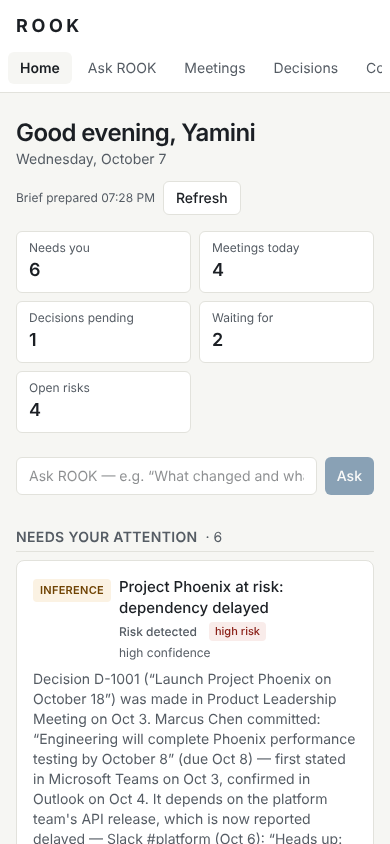
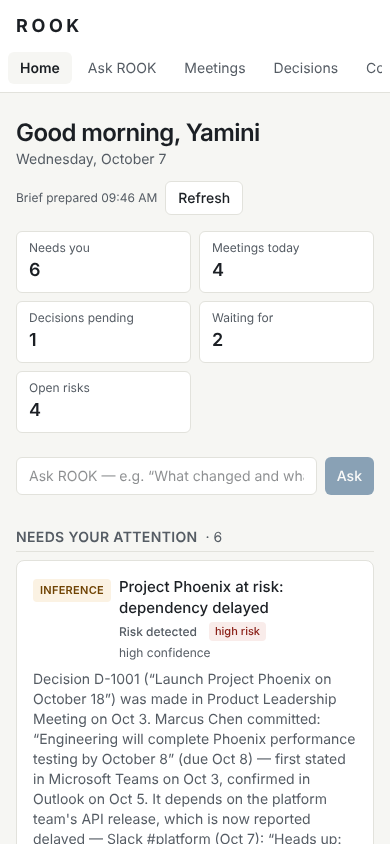
Demo data: plan meetings in the demo user's local working hours
M3 product-review prep (demo/test data only; no schema or production
time-architecture change).

- Demo agenda is planned in the demo user's configured time zone
  (ROOK_DEMO_TIMEZONE, default UTC; stored on the demo users and the demo
  connector config). Meetings fall within 08:00-18:00 local: stand-up 08:30,
  then Product Review / Payments steering / CFO 1:1 at the next sensible
  half-hour slots; anything that no longer fits today moves to the next
  morning. No overnight meetings; no "this morning" messages in the future.
- "Today" on the brief is the user's local calendar day (no rolling window
  into tomorrow).
- Tests: tenant fixtures use a zone where it is mid-morning so runs are
  deterministic; new tests/test_demo_data.py (working hours across 6 zones
  x 24 hours, morning/evening agendas, local-day "Today"); E2E pins the API
  demo zone and the browser timezoneId to the same local morning.
- Screenshots refreshed.

Claude-Session: https://claude.ai/code/session_01XjgUbqAZDXNApF1DXPERZT

diff --git a/frontend/playwright.config.ts b/frontend/playwright.config.ts
@@ -7,6 +7,17 @@ import { defineConfig } from "@playwright/test";
 const python = process.env.ROOK_PYTHON ?? ".venv/bin/python";
 const chromium = process.env.PW_CHROMIUM_PATH;
 
+/**
+ * Demo time zone: one where it is ~09:00 now (mirrors backend `demo_morning_timezone`), so reviews and
+ * CI always see a realistic working day. The API's demo user and the browser share this zone.
+ * Etc/GMT signs are inverted (Etc/GMT-5 = UTC+5).
+ */
+function morningTimezone(localHour = 9): string {
+  const offset = ((((localHour - new Date().getUTCHours() + 12) % 24) + 24) % 24) - 12;
+  return offset === 0 ? "Etc/GMT" : offset > 0 ? `Etc/GMT-${offset}` : `Etc/GMT+${-offset}`;
+}
+const demoTimezone = process.env.ROOK_DEMO_TIMEZONE ?? morningTimezone();
+
 export default defineConfig({
   testDir: "./e2e",
   workers: 1,
@@ -16,11 +27,12 @@ export default defineConfig({
   use: {
     baseURL: "http://localhost:3000",
     trace: "retain-on-failure",
+    timezoneId: demoTimezone,
     launchOptions: chromium ? { executablePath: chromium } : {},
   },
   webServer: [
     {
-      command: `sh -c "rm -f e2e.db && ROOK_DATABASE_URL=sqlite:///./e2e.db ROOK_DEV_LOGIN=true ${python} -m uvicorn rook.main:app --port 8000"`,
+      command: `sh -c "rm -f e2e.db && ROOK_DATABASE_URL=sqlite:///./e2e.db ROOK_DEV_LOGIN=true ROOK_DEMO_TIMEZONE=${demoTimezone} ${python} -m uvicorn rook.main:app --port 8000"`,
       cwd: "../backend",
       url: "http://localhost:8000/api/health",
       reuseExistingServer: !process.env.CI,

diff --git a/backend/rook/connectors/demo_data.py b/backend/rook/connectors/demo_data.py
@@ -8,7 +8,8 @@ and an unowned customer escalation.
 
 from __future__ import annotations
 
-from datetime import datetime, time, timedelta
+from datetime import UTC, date, datetime, time, timedelta
+from zoneinfo import ZoneInfo, ZoneInfoNotFoundError
 
 from .base import DirectoryPerson, DirectoryProject, NormalizedMeeting, NormalizedSignal, SyncBatch
 
@@ -24,21 +25,63 @@ def _fmt(d: datetime) -> str:
     return f"{d:%B} {d.day}"
 
 
-def build(now: datetime) -> SyncBatch:
-    today = datetime.combine(now.date(), time())
+# Demo meetings happen in normal working hours in the demo user's own time zone.
+WORKDAY_START = time(9, 0)
+WORKDAY_END = time(18, 0)
+
+
+def demo_morning_timezone(now_utc: datetime, local_hour: int = 9) -> str:
+    """Test helper: a fixed-offset zone in which it is currently about `local_hour` o'clock.
+
+    Lets tests and E2E runs see a realistic working day regardless of when CI runs.
+    Etc/GMT signs are inverted: Etc/GMT-5 is UTC+5.
+    """
+    offset = ((local_hour - now_utc.hour + 12) % 24) - 12  # -12..11
+    return "Etc/GMT" if offset == 0 else (f"Etc/GMT-{offset}" if offset > 0 else f"Etc/GMT+{-offset}")
+
+
+def build(now: datetime, tz: str = "UTC") -> SyncBatch:
+    """`now` is naive UTC; times are planned in local time in `tz` and returned as naive UTC."""
+    try:
+        zone = ZoneInfo(tz)
+    except (ZoneInfoNotFoundError, ValueError):
+        zone = ZoneInfo("UTC")
+    local_now = now.replace(tzinfo=UTC).astimezone(zone)
+    local_today = local_now.date()
+    today = datetime.combine(local_today, time())  # calendar arithmetic for dates quoted in the text
+
+    def at(day: date, hour: int, minute: int = 0) -> datetime:
+        local = datetime.combine(day, time(hour, minute), tzinfo=zone)
+        return local.astimezone(UTC).replace(tzinfo=None)
 
     def ago(days: int, hour: int = 9, minute: int = 0) -> datetime:
-        return today - timedelta(days=days) + timedelta(hours=hour, minutes=minute)
+        return at(local_today - timedelta(days=days), hour, minute)
 
     def ahead(days: int, hour: int = 9, minute: int = 0) -> datetime:
-        return today + timedelta(days=days) + timedelta(hours=hour, minutes=minute)
+        return at(local_today + timedelta(days=days), hour, minute)
 
-    # Today's agenda is anchored to the next full hour so the demo always has meetings ahead.
-    next_hour = now.replace(minute=0, second=0, microsecond=0) + timedelta(hours=1)
+    def next_slot(earliest_local: datetime, length_min: int, fallback: tuple[int, int, int]) -> tuple[datetime, datetime]:
+        """First half-hour slot at or after `earliest_local` that fits in today's working hours;
+        otherwise the fallback (days ahead, hour, minute) — never a meeting in the middle of the night."""
+        start = earliest_local.replace(second=0, microsecond=0)
+        if start.minute not in (0, 30):
+            start = start.replace(minute=30) if start.minute < 30 else start.replace(minute=0) + timedelta(hours=1)
+        start = max(start, datetime.combine(local_today, WORKDAY_START, tzinfo=zone))
+        end = start + timedelta(minutes=length_min)
+        if start.date() == local_today and end <= datetime.combine(local_today, WORKDAY_END, tzinfo=zone):
+            utc = start.astimezone(UTC).replace(tzinfo=None)
+            return utc, utc + timedelta(minutes=length_min)
+        d, h, m = fallback
+        begin = ahead(d, h, m)
+        return begin, begin + timedelta(minutes=length_min)
 
-    def slot(hours: float, length_min: int = 60) -> tuple[datetime, datetime]:
-        start = next_hour + timedelta(hours=hours)
-        return start, start + timedelta(minutes=length_min)
+    # Today's agenda: a morning stand-up, then the key meetings at sensible local times still ahead of
+    # the user when possible. Meetings that no longer fit before end of day move to the next morning.
+    review = next_slot(local_now + timedelta(minutes=30), 60, (1, 9, 30))
+    review_local = review[0].replace(tzinfo=UTC).astimezone(zone)
+    steering = next_slot(review_local + timedelta(hours=3), 60, (1, 13, 0))
+    steering_local = steering[0].replace(tzinfo=UTC).astimezone(zone)
+    cfo = next_slot(steering_local + timedelta(hours=2), 30, (1, 15, 30))
 
     launch_date = today + timedelta(days=11)
     perf_due = today + timedelta(days=1)
@@ -96,17 +139,17 @@ def build(now: datetime) -> SyncBatch:
             "Weekly product leadership: Phoenix launch readiness and pricing.",
         ),
         # today and upcoming
-        NormalizedMeeting("mtg-staff", "Executive staff stand-up", *slot(-2, 30), leadership, LEADER_EMAIL,
+        NormalizedMeeting("mtg-staff", "Executive staff stand-up", ahead(0, 8, 30), ahead(0, 9, 0), leadership, LEADER_EMAIL,
                           "Weekly staff alignment."),
         NormalizedMeeting(
-            "mtg-review", "Phoenix Product Review", *slot(0), [LEADER_EMAIL, _e("priya"), _e("marcus"), _e("tom")],
+            "mtg-review", "Phoenix Product Review", *review, [LEADER_EMAIL, _e("priya"), _e("marcus"), _e("tom")],
             _e("priya"), "Review Phoenix launch readiness and performance test results.",
         ),
         NormalizedMeeting(
-            "mtg-pay-steer", "Payments Migration steering", *slot(3), payments_team, _e("lena"),
+            "mtg-pay-steer", "Payments Migration steering", *steering, payments_team, _e("lena"),
             "Agree cutover approach for the payments migration.",
         ),
-        NormalizedMeeting("mtg-cfo", "1:1 with David (CFO)", *slot(5.5, 30), [LEADER_EMAIL, _e("david")], LEADER_EMAIL),
+        NormalizedMeeting("mtg-cfo", "1:1 with David (CFO)", *cfo, [LEADER_EMAIL, _e("david")], LEADER_EMAIL),
         NormalizedMeeting(
             "mtg-nw-qbr", "Northwind quarterly business review", ahead(1, 11), ahead(1, 12),
             [LEADER_EMAIL, _e("elena"), _e("priya")], _e("elena"), "Quarterly review with Northwind leadership.",
@@ -210,4 +253,8 @@ def build(now: datetime) -> SyncBatch:
     for sig in s:
         if sig.kind in {"email", "meeting_transcript"}:
             sig.visibility = "restricted"
+    # Early in the local day, "this morning" messages can't be in the future.
+    latest = now - timedelta(minutes=10)
+    for sig in s:
+        sig.occurred_at = min(sig.occurred_at, latest)
     return SyncBatch(signals=s, meetings=meetings, people=people, projects=projects)

diff --git a/backend/tests/test_demo_data.py b/backend/tests/test_demo_data.py
@@ -1,0 +1,85 @@
+"""Demo data realism (M3 review prep): meetings at sensible local times; "Today" = the local calendar day."""
+
+from datetime import UTC, datetime
+from zoneinfo import ZoneInfo
+
+import pytest
+from sqlalchemy import create_engine
+from sqlalchemy.orm import sessionmaker
+from sqlalchemy.pool import StaticPool
+
+from rook.bootstrap import ensure_demo_tenant
+from rook.connectors import demo_data
+from rook.db import init_db
+from rook.models import User, utcnow
+from rook.services.briefing import build_brief
+from rook.timeutil import to_local
+
+ZONES = ["UTC", "Asia/Kolkata", "America/Los_Angeles", "Europe/London", "Pacific/Auckland", "America/Sao_Paulo"]
+
+
+@pytest.mark.parametrize("tz", ZONES)
+@pytest.mark.parametrize("utc_hour", range(24))
+def test_meetings_fall_in_local_working_hours(tz, utc_hour):
+    now = datetime(2026, 10, 7, utc_hour, 17)
+    zone = ZoneInfo(tz)
+    batch = demo_data.build(now, tz)
+    for m in batch.meetings:
+        start = m.starts_at.replace(tzinfo=UTC).astimezone(zone)
+        end = m.ends_at.replace(tzinfo=UTC).astimezone(zone)
+        assert start.hour >= 8 and (end.hour, end.minute) <= (18, 0), (m.title, start, end)
+        assert start.date() == end.date(), "no overnight demo meetings"
+    assert all(s.occurred_at <= now for s in batch.signals), "no messages from the future"
+
+
+def test_key_meetings_are_still_ahead_in_the_morning():
+    now = datetime(2026, 10, 7, 4, 20)  # 09:50 in Kolkata
+    zone = ZoneInfo("Asia/Kolkata")
+    times = {m.title: m.starts_at.replace(tzinfo=UTC).astimezone(zone) for m in demo_data.build(now, "Asia/Kolkata").meetings}
+    assert times["Phoenix Product Review"].strftime("%a %H:%M") == "Wed 10:30"
+    assert times["Payments Migration steering"].strftime("%H:%M") == "13:30"
+    assert times["1:1 with David (CFO)"].strftime("%H:%M") == "15:30"
+    assert times["Executive staff stand-up"].strftime("%H:%M") == "08:30"
+
+
+def test_late_in_the_day_meetings_move_to_next_morning():
+    now = datetime(2026, 10, 7, 15, 0)  # 20:30 in Kolkata
+    zone = ZoneInfo("Asia/Kolkata")
+    times = {m.title: m.starts_at.replace(tzinfo=UTC).astimezone(zone) for m in demo_data.build(now, "Asia/Kolkata").meetings}
+    assert times["Phoenix Product Review"].strftime("%a %H:%M") == "Thu 09:30"
+    assert times["Payments Migration steering"].strftime("%a %H:%M") == "Thu 13:00"
+
+
+def _tenant(tz: str):
+    engine = create_engine("sqlite://", connect_args={"check_same_thread": False}, poolclass=StaticPool)
+    init_db(engine)
+    db = sessionmaker(bind=engine, expire_on_commit=False)()
+    ensure_demo_tenant(db, timezone=tz)
+    return db, db.query(User).filter_by(email="yamini@acme.example").one()
+
+
+def test_today_is_the_users_local_calendar_day():
+    tz = demo_data.demo_morning_timezone(utcnow(), local_hour=21)  # evening for the user
+    db, user = _tenant(tz)
+    assert user.timezone == tz
+    brief = build_brief(db, user)
+    local_today = to_local(utcnow(), tz).date()
+    for m in brief["today"]:
+        assert to_local(datetime.fromisoformat(m["starts_at"].rstrip("Z")), tz).date() == local_today
+    # in the evening only the morning stand-up remains on today's calendar; the rest moved to tomorrow
+    assert [m["title"] for m in brief["today"]] == ["Executive staff stand-up"]
+
+
+def test_morning_brief_has_a_full_local_agenda():
+    db, user = _tenant(demo_data.demo_morning_timezone(utcnow()))
+    titles = [m["title"] for m in build_brief(db, user)["today"]]
+    assert titles == ["Executive staff stand-up", "Phoenix Product Review", "Payments Migration steering", "1:1 with David (CFO)"]
+    assert "Northwind quarterly business review" not in titles  # tomorrow is not "today"
+
+
+def test_demo_morning_timezone_helper():
+    for h in range(24):
+        now = datetime(2026, 10, 7, h, 5)
+        tz = demo_data.demo_morning_timezone(now)
+        assert to_local(now, tz).hour == 9
+    assert demo_data.demo_morning_timezone(datetime(2026, 10, 7, 9, 0)) == "Etc/GMT"

diff --git a/backend/rook/bootstrap.py b/backend/rook/bootstrap.py
@@ -2,6 +2,8 @@
 
 from __future__ import annotations
 
+import os
+
 from sqlalchemy import select
 from sqlalchemy.orm import Session
 
@@ -18,19 +20,23 @@ DEFAULT_POLICY = {
 }
 
 
-def ensure_demo_tenant(db: Session, sync: bool = True) -> Organization:
+def ensure_demo_tenant(db: Session, sync: bool = True, timezone: str | None = None) -> Organization:
+    """Demo tenant. Its users and its meeting times share one time zone: `timezone`, else
+    ROOK_DEMO_TIMEZONE, else UTC — so the synthetic agenda falls in that zone's working hours."""
     org = db.scalar(select(Organization).where(Organization.slug == "acme"))
+    tz = timezone or os.environ.get("ROOK_DEMO_TIMEZONE") or "UTC"
     if org is None:
         org = Organization(name="Acme Robotics", slug="acme", ai_policy=dict(DEFAULT_POLICY))
         db.add(org)
         db.flush()
         db.add_all([
             User(org_id=org.id, email="yamini@acme.example", name="Yamini Devasena",
-                 title="Chief Executive Officer", role="admin"),
-            User(org_id=org.id, email="marcus@acme.example", name="Marcus Chen", title="VP Engineering", role="member"),
+                 title="Chief Executive Officer", role="admin", timezone=tz),
+            User(org_id=org.id, email="marcus@acme.example", name="Marcus Chen", title="VP Engineering", role="member",
+                 timezone=tz),
         ])
         db.flush()
-        connect_demo(db, org.id)
+        connect_demo(db, org.id).config = {"timezone": tz}
         db.commit()
         if sync:
             for c in org_connectors(db, org.id):

diff --git a/backend/tests/conftest.py b/backend/tests/conftest.py
@@ -9,8 +9,10 @@ from sqlalchemy.orm import sessionmaker
 from sqlalchemy.pool import StaticPool
 
 from rook.bootstrap import ensure_demo_tenant
+from rook.connectors.demo_data import demo_morning_timezone
 from rook.db import get_db, init_db
 from rook.main import create_app
+from rook.models import utcnow
 
 
 @pytest.fixture()
@@ -27,7 +29,8 @@ def session_factory():
     init_db(engine)
     factory = sessionmaker(bind=engine, autoflush=False, expire_on_commit=False)
     with factory() as db:
-        ensure_demo_tenant(db)
+        # A zone where it is mid-morning right now: a realistic working day whenever the suite runs.
+        ensure_demo_tenant(db, timezone=demo_morning_timezone(utcnow()))
     return factory
 
 

diff --git a/backend/rook/services/briefing.py b/backend/rook/services/briefing.py
@@ -70,7 +70,8 @@ def build_brief(db: Session, user: User, now: datetime | None = None) -> dict:
     proposed = [c for c in commitments if c.status == "proposed"]
     open_c = [c for c in commitments if c.status == "open"]
 
-    meetings_today = [m for m in visible_meetings(db, user) if day_start <= m.starts_at < max(now + timedelta(hours=12), day_end)]
+    # "Today" is the user's local calendar day — not a rolling window into tomorrow.
+    meetings_today = [m for m in visible_meetings(db, user) if day_start <= m.starts_at < day_end]
     today_items = []
     for m in meetings_today:
         reasons = prep_reasons(db, v, m)

diff --git a/backend/rook/connectors/demo.py b/backend/rook/connectors/demo.py
@@ -17,7 +17,8 @@ class DemoConnector(BaseConnector):
     can_send = True
 
     def sync(self, since: datetime | None) -> SyncBatch:
-        return demo_data.build(utcnow())
+        # Meeting times are planned in the demo user's configured time zone (set at bootstrap).
+        return demo_data.build(utcnow(), self.config.get("timezone", "UTC"))
 
     def send(self, message: OutboundMessage) -> str:
         # Nothing leaves the system: the demo "outbox" is the audit log.

diff --git a/CLAUDE.md b/CLAUDE.md
@@ -12,7 +12,8 @@
 cd backend && python -m venv .venv && .venv/bin/pip install -r requirements-dev.txt
 .venv/bin/ruff check rook tests && .venv/bin/python -m pytest -q          # SQLite, rules mode
 ROOK_TEST_DATABASE_URL=postgresql+psycopg://... .venv/bin/python -m pytest -q   # same suite on Postgres
-.venv/bin/uvicorn rook.main:app --reload    # demo tenant when ROOK_DEV_LOGIN=true; log in as yamini@acme.example
+ROOK_DEMO_TIMEZONE=Asia/Kolkata .venv/bin/uvicorn rook.main:app --reload    # demo tenant when ROOK_DEV_LOGIN=true; log in as yamini@acme.example
+# (demo meetings are planned in ROOK_DEMO_TIMEZONE working hours; delete rook.db to re-plan)
 ```
 Or `docker compose up --build` from the repo root (Postgres + API).
 
